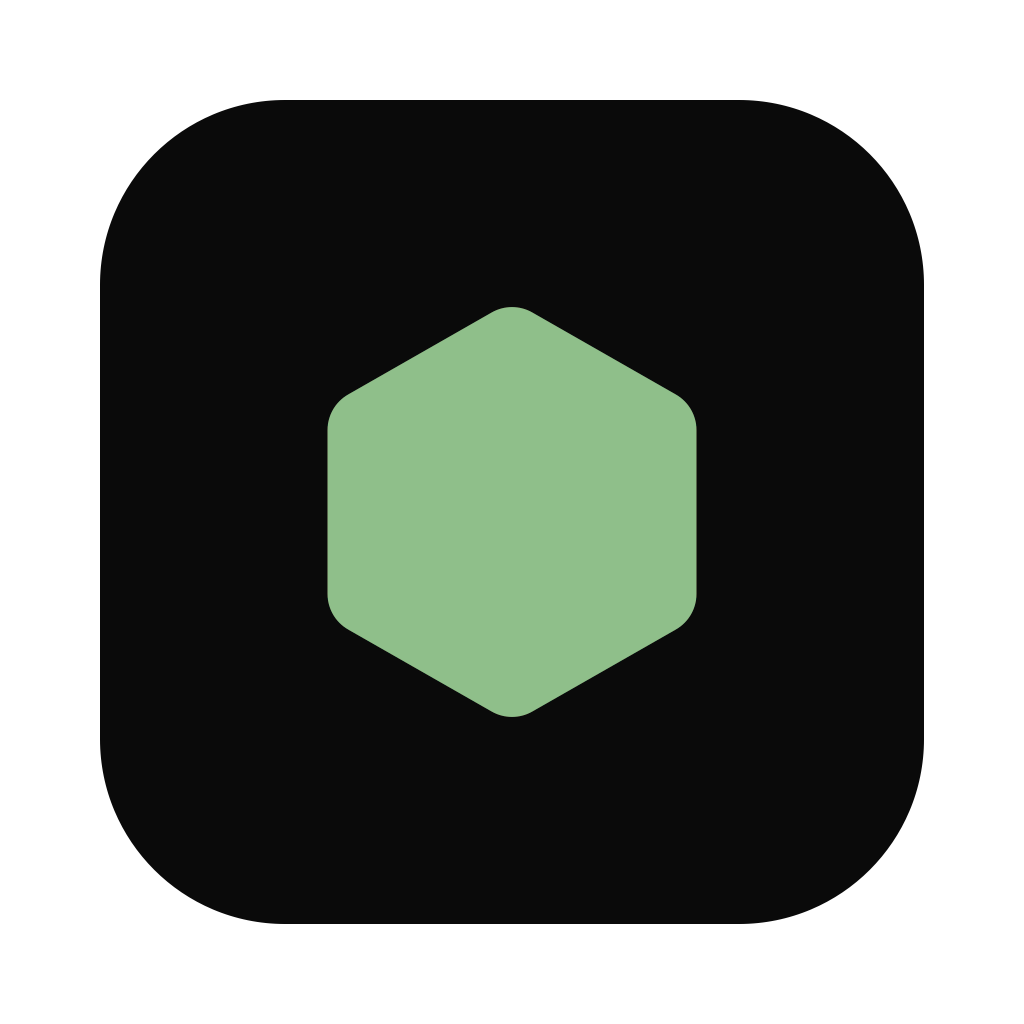
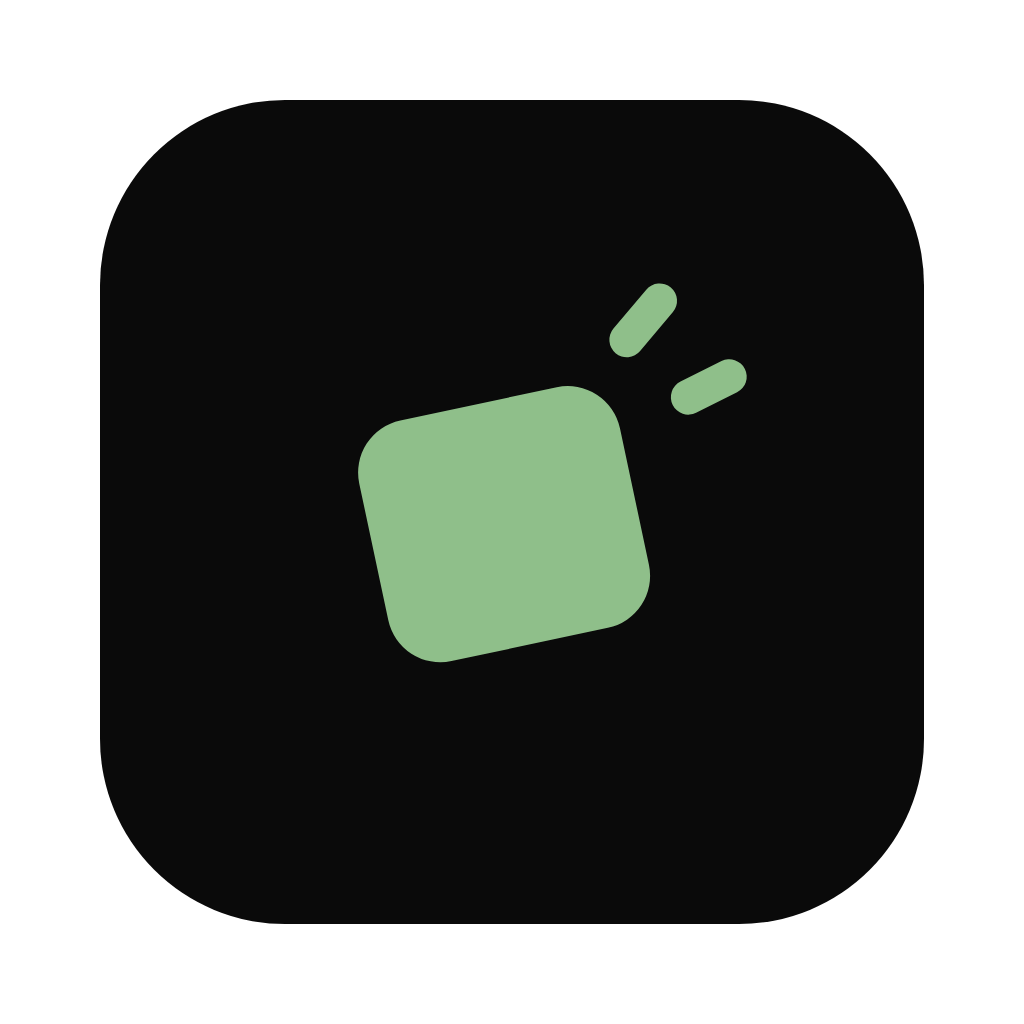
update landing (#1)
* fix landing page being replaced by the studio in a browser
* update landing page copy, stats and app icon

Changed region(s): [[0.3125, 0.2812, 0.75, 0.7188]]

diff --git a/apps/web/src/components/landing.tsx b/apps/web/src/components/landing.tsx
@@ -2,7 +2,7 @@
 
 import { INSTALL_COMMANDS, PRODUCT_NAME, REPO_URL, X_URL } from '@studio/constants';
 import { CopyButton } from '@studio/ui';
-import { Github, Layers, type LucideIcon, Palette, Sparkles } from 'lucide-react';
+import { Github, InfinityIcon } from 'lucide-react';
 import { type ReactNode, useState } from 'react';
 
 const INSTALL_TABS = [
@@ -10,37 +10,23 @@ const INSTALL_TABS = [
   { label: 'Windows', command: INSTALL_COMMANDS.windows },
 ];
 
-const HERO_FACTS = ['50+ templates', 'UI kits', 'Threads'];
-
 const STATS = [
-  { label: 'Templates', value: '50+', sub: 'Tailored for Web3 and AI' },
-  { label: 'On-device', value: '100%', sub: 'Nothing runs in the cloud' },
-  { label: 'Export formats', value: '4', sub: 'PNG, JPG, PDF and SVG' },
-  { label: 'API keys', value: '0', sub: 'Nothing to sign up for' },
-];
-
-interface FeatureItem {
-  icon: LucideIcon;
-  title: string;
-  body: string;
-}
-
-const FEATURES: FeatureItem[] = [
   {
-    icon: Layers,
-    title: 'Start from a template',
-    body: 'Announcements, milestones, partnerships, releases and threads. Pick one and change the words.',
+    label: 'Templates',
+    value: '60+',
+    sub: 'Premium quality pre-made posts made for busy builders, founders, and vibecoders.',
   },
   {
-    icon: Palette,
-    title: 'Your own style',
-    body: 'Switch a post to a built-in UI kit, or build a kit from your own colors and fonts.',
+    label: 'Post types',
+    value: <InfinityIcon aria-label="Unlimited" className="size-9" strokeWidth={2.5} />,
+    sub: 'Announcements, launches, partnerships, benchmarks, threads, and more.',
   },
   {
-    icon: Sparkles,
-    title: 'AI elements, painted locally',
-    body: 'Describe an object and an image model on your machine paints it, with the background cut away.',
+    label: 'On-device',
+    value: '100%',
+    sub: 'Nothing runs in the cloud. Your data always stays on your device.',
   },
+  { label: 'Price', value: '$0', sub: 'Free to use. No monthly subscriptions.' },
 ];
 
 const STUDIO_KITS = [
@@ -51,7 +37,7 @@ const STUDIO_KITS = [
 ];
 
 const DESIGN_FACTS = [
-  '50+ templates across the most used and requested post types, tailored for Web3 and AI industries.',
+  'Fresh templates across the most used and requested post types, tailored for Web3 and AI industries.',
   'Generous database of built-in UI kits, and the constructor to create your own.',
   'Single posts or multi-page threads, sized for X, Instagram, LinkedIn and stories.',
 ];
@@ -68,7 +54,6 @@ export function Landing() {
         </div>
         <StatsStrip />
         <StudioStill />
-        <FeatureCards />
         <InstallCta />
         <Copyright />
       </div>
@@ -84,22 +69,12 @@ function Hero() {
         The local design studio
       </p>
       <h1 className="max-w-4xl text-[clamp(32px,4.6vw,52px)] font-bold leading-[1.1] tracking-tight">
-        Posts and threads in your <span className="whitespace-nowrap">own style</span>
+        Create posts and vids <span className="whitespace-nowrap">that slap</span>
       </h1>
       <p className="max-w-2xl font-mono text-lead leading-[1.7] text-canvas-muted-foreground">
-        Pick a template, switch it to your brand, and export. A design studio that runs on your
-        machine, with no account and no cloud.
+        A modern, offline and free design studio that runs on your machine. Powered by Tether and
+        QVAC.
       </p>
-      <div className="flex flex-wrap gap-2">
-        {HERO_FACTS.map((fact) => (
-          <span
-            key={fact}
-            className="rounded-md border border-canvas-border bg-canvas-muted px-3 py-1.5 text-sm font-semibold text-canvas-foreground"
-          >
-            {fact}
-          </span>
-        ))}
-      </div>
       <section id="install" className="max-w-lg scroll-mt-24 space-y-3">
         <p className="font-mono text-xs font-semibold uppercase tracking-widest text-primary">
           Install via Terminal
@@ -275,18 +250,16 @@ function SectionDivider() {
 function StudioStill() {
   const tile = `${POST} aspect-[16/10] !p-1.5 text-[8px] font-extrabold`;
   return (
-    <section id="studio" className="scroll-mt-24 space-y-6">
+    // Not id="studio": browsers expose element ids as window globals, and
+    // window.studio is how the app detects the desktop bridge.
+    <section id="studio-preview" className="scroll-mt-24 space-y-6">
       <SectionDivider />
       <div className="space-y-3">
-        <p className="font-mono text-xs font-semibold uppercase tracking-widest text-primary">
-          The studio
-        </p>
         <h2 className="text-[clamp(28px,4vw,42px)] font-bold leading-tight tracking-tight text-canvas-foreground">
-          Post about it
+          Ship it. Post about it
         </h2>
         <p className="max-w-2xl font-mono text-lead leading-[1.5] text-canvas-muted-foreground">
-          Pick a template, switch it to your style, and export. Announcements, partnerships,
-          threads, etc.
+          A launch nobody sees didn't happen. Make the post worth stopping for.
         </p>
       </div>
       <div className="overflow-hidden rounded-2xl border border-canvas-border bg-canvas-muted">
@@ -398,24 +371,6 @@ function StudioStill() {
   );
 }
 
-function FeatureCards() {
-  return (
-    <section className="grid grid-cols-1 divide-y divide-canvas-border md:grid-cols-3 md:divide-x md:divide-y-0">
-      {FEATURES.map(({ icon: Icon, title, body }) => (
-        <div key={title} className="flex h-full flex-col bg-canvas-muted p-6 sm:p-7">
-          <Icon className="size-3.5 text-primary" strokeWidth={2.5} aria-hidden />
-          <h3 className="mt-4 text-lg font-semibold leading-snug tracking-tight text-canvas-foreground sm:text-xl">
-            {title}
-          </h3>
-          <p className="mt-2.5 font-mono text-sm leading-relaxed text-canvas-muted-foreground">
-            {body}
-          </p>
-        </div>
-      ))}
-    </section>
-  );
-}
-
 function InstallCta() {
   return (
     <div className="rounded-2xl border border-canvas-border bg-canvas-muted p-6 sm:p-8">
@@ -428,7 +383,7 @@ function InstallCta() {
             Ready to design your next post?
           </h3>
           <p className="mt-2 max-w-xl font-mono text-sm leading-relaxed text-canvas-muted-foreground sm:text-base">
-            One install command. Runs offline. No accounts, no cloud.
+            One install command. Runs offline. Nothing in the cloud.
           </p>
         </div>
         <div className="w-full min-w-0 md:w-[400px]">

diff --git a/apps/web/src/app/layout.tsx b/apps/web/src/app/layout.tsx
@@ -13,7 +13,7 @@ export const metadata = {
   title: PRODUCT_NAME,
   description: 'Social posts and threads from templates, in your own style. Runs on your machine.',
   icons: {
-    icon: [{ url: '/favicon.ico?v=2', type: 'image/x-icon', sizes: '32x32' }],
+    icon: [{ url: '/favicon.ico?v=3', type: 'image/x-icon', sizes: '32x32' }],
   },
   other: {
     google: 'notranslate',
@@ -22,7 +22,7 @@ export const metadata = {
 
 /** Tag <html data-platform="desktop"> before paint when the desktop bridge is
  *  present, so CSS can pick the right header layout (controls + logo offset). */
-const tagPlatformScript = `try{if(window.studio){document.documentElement.setAttribute('data-platform','desktop')}}catch(e){}`;
+const tagPlatformScript = `try{if(window.studio&&!(window.studio instanceof Element)){document.documentElement.setAttribute('data-platform','desktop')}}catch(e){}`;
 
 // No remote origin, so a CDN compromise, a TLS intercept, or a pinned-range
 // mistake cannot run code in the same origin that holds window.studio.

diff --git a/apps/web/src/app/(home)/page.tsx b/apps/web/src/app/(home)/page.tsx
@@ -1,6 +1,6 @@
 'use client';
 
-import { DesignStudioPage } from '@studio/ui';
+import { DesignStudioPage, isDesktopApp } from '@studio/ui';
 import { useLayoutEffect, useState } from 'react';
 import { Landing } from '@/components/landing';
 
@@ -9,7 +9,7 @@ export default function HomePage() {
   const [desktop, setDesktop] = useState(false);
   // Before the first paint. Until then global.css hides the landing page in the desktop app.
   useLayoutEffect(() => {
-    if ((window as { studio?: unknown }).studio) setDesktop(true);
+    if (isDesktopApp()) setDesktop(true);
   }, []);
   if (desktop) return <DesignStudioPage />;
   return (

diff --git a/packages/ui/src/lib/desktop.ts b/packages/ui/src/lib/desktop.ts
@@ -7,7 +7,12 @@ declare global {
   }
 }
 
-/** True in the desktop app, false in a browser and while rendering on the server. */
+/**
+ * True in the desktop app, false in a browser and while rendering on the server.
+ * An element with id="studio" also shows up as window.studio, so DOM nodes don't count.
+ */
 export function isDesktopApp(): boolean {
-  return typeof window !== 'undefined' && !!window.studio;
+  if (typeof window === 'undefined') return false;
+  const bridge: unknown = window.studio;
+  return !!bridge && !(bridge instanceof Element);
 }

diff --git a/packages/ui/src/index.ts b/packages/ui/src/index.ts
@@ -1,4 +1,5 @@
 export { cn } from './lib/cn.js';
+export { isDesktopApp } from './lib/desktop.js';
 
 export { CopyButton } from './components/content/install-command.js';
 export { DesignStudioPage } from './components/design/studio/studio-page.js';
